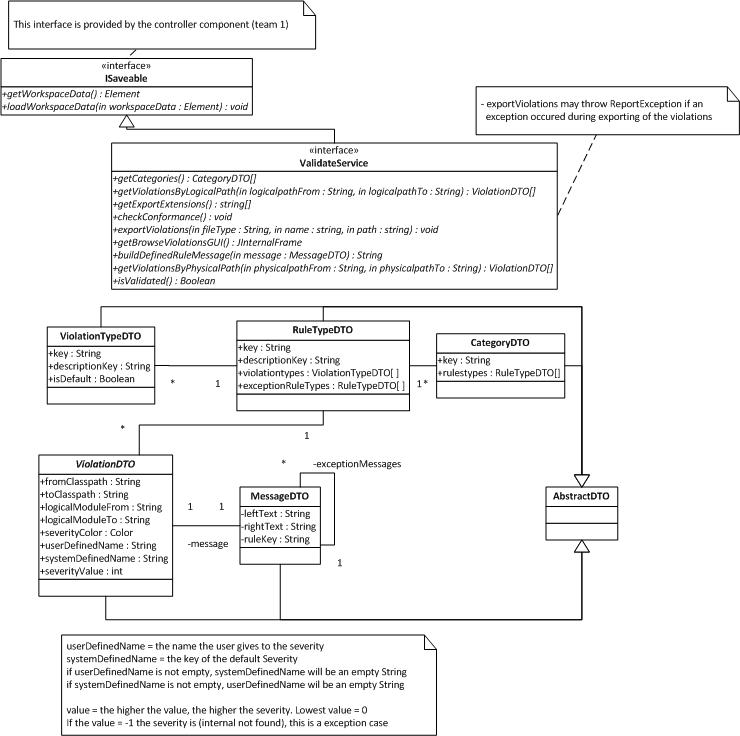
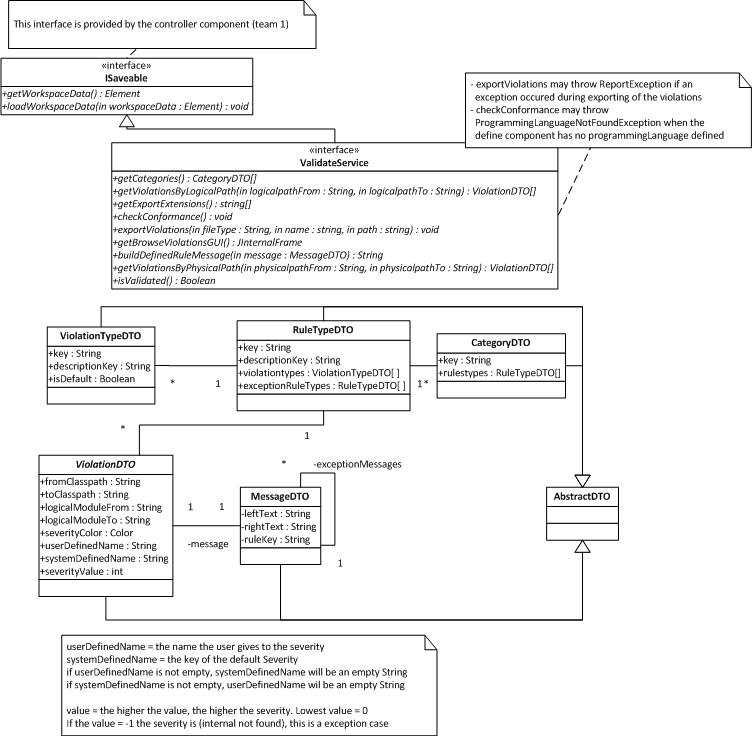
- Throw ProgrammingLanguageNotFoundException.java when checkConformance is called, but when there is no programming language defined in the define component - Updated documentation

diff --git a/src/husacct/validate/domain/check/CheckConformanceController.java b/src/husacct/validate/domain/check/CheckConformanceController.java
@@ -1,7 +1,11 @@
 package husacct.validate.domain.check;
 
+import husacct.ServiceProvider;
+import husacct.common.dto.ApplicationDTO;
 import husacct.common.dto.RuleDTO;
+import husacct.define.IDefineService;
 import husacct.validate.domain.ConfigurationServiceImpl;
+import husacct.validate.domain.exception.ProgrammingLanguageNotFoundException;
 import husacct.validate.domain.exception.RuleInstantionException;
 import husacct.validate.domain.exception.RuleTypeNotFoundException;
 import husacct.validate.domain.factory.ruletype.RuleTypesFactory;
@@ -20,6 +24,7 @@ public class CheckConformanceController {
 	private Logger logger = Logger.getLogger(CheckConformanceController.class);
 	private RuleTypesFactory ruleFactory;
 	private Map<String, RuleType> ruleCache;
+	private IDefineService defineService = ServiceProvider.getInstance().getDefineService();
 
 	public CheckConformanceController(ConfigurationServiceImpl configuration, RuleTypesFactory ruleFactory){
 		this.configuration = configuration;
@@ -29,19 +34,25 @@ public class CheckConformanceController {
 	}
 
 	public void checkConformance(RuleDTO[] appliedRules){
-		for(RuleDTO appliedRule : appliedRules){
-			try{
-				RuleType rule = getRuleType(appliedRule.ruleTypeKey);
-				List<Violation> newViolations = rule.check(configuration, appliedRule, appliedRule);
-				configuration.addViolations(newViolations);
-				if(appliedRule.exceptionRules != null){
-					checkConformanceExceptionRules(appliedRule.exceptionRules, appliedRule);
+		final ApplicationDTO applicationDetails = defineService.getApplicationDetails();
+		if(applicationDetails.programmingLanguage != null && !applicationDetails.programmingLanguage.isEmpty()){
+			for(RuleDTO appliedRule : appliedRules){
+				try{
+					RuleType rule = getRuleType(appliedRule.ruleTypeKey);
+					List<Violation> newViolations = rule.check(configuration, appliedRule, appliedRule);
+					configuration.addViolations(newViolations);
+					if(appliedRule.exceptionRules != null){
+						checkConformanceExceptionRules(appliedRule.exceptionRules, appliedRule);
+					}
+				}catch(RuleTypeNotFoundException e){
+					logger.warn(String.format("RuleTypeKey: %s not found, this rule will not be validated", appliedRule.ruleTypeKey));
+				} catch (RuleInstantionException e) {
+					logger.warn(String.format("RuleTypeKey: %s can not be instantiated, this rule will not be validated", appliedRule.ruleTypeKey));
 				}
-			}catch(RuleTypeNotFoundException e){
-				logger.warn(String.format("RuleTypeKey: %s not found, this rule will not be validated", appliedRule.ruleTypeKey));
-			} catch (RuleInstantionException e) {
-				logger.warn(String.format("RuleTypeKey: %s can not be instantiated, this rule will not be validated", appliedRule.ruleTypeKey));
 			}
+		}
+		else{
+			throw new ProgrammingLanguageNotFoundException();
 		}
 	}
 

diff --git a/src/husacct/validate/domain/exception/ProgrammingLanguageNotFoundException.java b/src/husacct/validate/domain/exception/ProgrammingLanguageNotFoundException.java
@@ -1,9 +1,9 @@
 package husacct.validate.domain.exception;
 
-public class ProgrammingLanguageNotFound extends RuntimeException {
+public class ProgrammingLanguageNotFoundException extends RuntimeException {
 	private static final long serialVersionUID = 546237525481467995L;
 
-	public ProgrammingLanguageNotFound(){
+	public ProgrammingLanguageNotFoundException(){
 		super();
 	}
 }

diff --git a/src/husacct/validate/ValidateServiceImpl.java b/src/husacct/validate/ValidateServiceImpl.java
@@ -69,7 +69,7 @@ public class ValidateServiceImpl implements IValidateService, ISaveable {
 	@Override
 	public void checkConformance() {		
 		RuleDTO[] appliedRules = defineService.getDefinedRules();
-		domain.checkConformance(appliedRules);
+		domain.checkConformance(appliedRules);		
 		this.validationExecuted = true;
 	}
 
